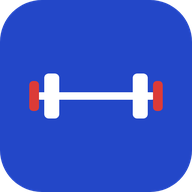
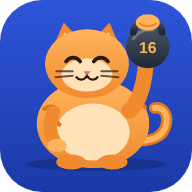
3.9: вес и замеры тела, полная резервная копия, новая иконка
- Раздел «Тело» в журнале: вес и 7 обхватов, дельта за 4 недели (окраска по цели), график, список, удаление
- Синхронизация замеров с аккаунтом (документ _body в коллекции журнала)
- Резервная копия v2: настройки, инвентарь, авторегулировка, календарь, атлас, журнал, замеры; старые копии v1 читаются
- Экспорт замеров в CSV; точность графика задаётся параметром sparkSvg
- Иконка: толстый кот с гирей (обычная и maskable)

Claude-Session: https://claude.ai/code/session_016UbA6bamnyAaC4WGgmYbFm

diff --git a/src/js/18-measures.js b/src/js/18-measures.js
@@ -1,0 +1,164 @@
+/* ===================== ТЕЛО: ВЕС И ЗАМЕРЫ ===================== */
+/* BODY.rows = [{d:'2026-10-06', kg:82.4, waist:88, …}] — одна запись на день, любые поля.
+   Хранится в localStorage (podhod.body.v1) и, при входе в аккаунт, в документе «_body» той же коллекции, что журнал. */
+const BODY_KEY = 'podhod.body.v1';
+const BODY_FIELDS = [
+  {k:'kg', name:'Вес', unit:'кг', main:true},
+  {k:'waist', name:'Талия', unit:'см'}, {k:'chest', name:'Грудь', unit:'см'}, {k:'hips', name:'Таз', unit:'см'},
+  {k:'arm', name:'Бицепс', unit:'см'}, {k:'thigh', name:'Бедро', unit:'см'}, {k:'calf', name:'Голень', unit:'см'}, {k:'neck', name:'Шея', unit:'см'}
+];
+const BODY = {rows:[], pending:false, writing:false, again:false};
+function validBodyRows(rows) { return Array.isArray(rows) && rows.every(r => r && typeof r.d === 'string' && /^\d{4}-\d\d-\d\d$/.test(r.d)); }
+function cleanBodyRow(r) { const o = {d:r.d}; for (const f of BODY_FIELDS) { const v = parseNum(r[f.k]); if (v != null && v > 0 && v < 1000) o[f.k] = Math.round(v * 10) / 10; } return o; }
+function bodyHasValues(r) { return BODY_FIELDS.some(f => r[f.k] != null); }
+function bodyLoad() { try { const s = JSON.parse(localStorage.getItem(BODY_KEY) || 'null'); if (s && validBodyRows(s.rows)) BODY.rows = s.rows.map(cleanBodyRow).filter(bodyHasValues); } catch (e) {} }
+function bodySaveLocal() { try { localStorage.setItem(BODY_KEY, JSON.stringify({rows:BODY.rows})); } catch (e) {} }
+/* объединение по дате: поля складываются, при совпадении приоритет у b */
+function mergeBodyRows(a, b) {
+  const by = new Map();
+  for (const r of a || []) by.set(r.d, {...r});
+  for (const r of b || []) by.set(r.d, {...(by.get(r.d) || {}), ...r});
+  return [...by.values()].filter(bodyHasValues).sort((p, q) => p.d < q.d ? -1 : 1).slice(-400);
+}
+/* синхронизация с аккаунтом: вызывается из logInit при каждом снимке коллекции */
+function bodyRemote(doc, first) {
+  const remote = doc && validBodyRows(doc.rows) ? doc.rows.map(cleanBodyRow).filter(bodyHasValues) : [];
+  if (first) {
+    const merged = mergeBodyRows(remote, BODY.rows);
+    if (JSON.stringify(merged) !== JSON.stringify(remote)) { BODY.rows = merged; bodyTouch(true); } else BODY.rows = remote;
+  } else {
+    if (BODY.pending || JSON.stringify(remote) === JSON.stringify(BODY.rows)) return;
+    BODY.rows = remote;
+  }
+  bodySaveLocal();
+  if (S.view === 'journal' && !$('#b-form input:focus')) renderJournal();
+}
+function bodyTouch(now) {
+  bodySaveLocal();
+  if (LOG.mode !== 'cloud' || !LOG.col) return;
+  BODY.pending = true;
+  clearTimeout(BODY.timer);
+  BODY.timer = setTimeout(bodyFlush, now ? 0 : 800);
+}
+async function bodyFlush(retried) {
+  if (BODY.writing) { BODY.again = true; return; }
+  BODY.writing = true;
+  try {
+    if (BODY.rows.length) await LOG.col.doc('_body').set({ex:'_body', rows:BODY.rows});
+    else await LOG.col.doc('_body').delete();
+  } catch (e) {
+    if (e && e.code === 'unavailable' && !retried) { BODY.writing = false; setTimeout(() => bodyFlush(true), 800); return; }
+    LOG.err = 'Сохранить замеры в аккаунт не получилось — они остаются в этом браузере.'; logRefresh(null);
+  } finally {
+    BODY.writing = false;
+    if (BODY.again) { BODY.again = false; bodyFlush(); } else BODY.pending = false;
+  }
+}
+function bodyLatest(k) { for (let i = BODY.rows.length - 1; i >= 0; i--) if (BODY.rows[i][k] != null) return BODY.rows[i]; return null; }
+/* изменение за период: сравниваем последнее значение с ближайшим не позже cutoff */
+function bodyDelta(k, days) {
+  const last = bodyLatest(k); if (!last) return null;
+  const cutoff = dayKey(new Date(new Date(last.d + 'T12:00:00') - days * 86400000));
+  const prev = [...BODY.rows].reverse().find(r => r[k] != null && r.d <= cutoff && r.d !== last.d);
+  return prev ? {v:Math.round((last[k] - prev[k]) * 10) / 10, from:prev.d} : null;
+}
+const fmtDelta = v => (v > 0 ? '+' : v < 0 ? '−' : '±') + fmtKg(Math.abs(v));
+/* окраска изменения веса зависит от цели: на массе рост — хорошо, на рельефе — наоборот; на силе нейтрально */
+function deltaClass(v) { const g = S.goal === 'mass' ? 1 : S.goal === 'cut' ? -1 : 0; return !g || !v ? '' : v * g > 0 ? 'good' : 'bad'; }
+function bodyHtml() {
+  const last = bodyLatest('kg'), d4 = bodyDelta('kg', 28);
+  const pts = BODY.rows.filter(r => r.kg != null).slice(-40).map(r => ({d:r.d, v:r.kg}));
+  const chips = BODY_FIELDS.filter(f => !f.main).map(f => { const l = bodyLatest(f.k); if (!l) return ''; const dl = bodyDelta(f.k, 28); return `<li><span>${f.name}</span><b>${fmtKg(l[f.k])}<small>${f.unit}</small></b>${dl && dl.v ? `<em>${fmtDelta(dl.v)}</em>` : ''}</li>`; }).join('');
+  const form = `<form class="b-form" id="b-form" autocomplete="off">
+    <label class="b-date">Дата<input type="date" id="b-date" value="${todayKey()}" max="${todayKey()}" required></label>
+    ${BODY_FIELDS.map(f => { const l = bodyLatest(f.k); return `<label${f.main ? ' class="b-main"' : ''}>${f.name}, ${f.unit}<input class="lt-in" type="text" inputmode="decimal" data-bf="${f.k}" placeholder="${l ? fmtKg(l[f.k]) : '—'}" aria-label="${f.name}, ${f.unit}"></label>`; }).join('')}
+    <button type="submit" class="btn">Записать</button>
+    <p class="b-hint">Заполняйте то, что измерили: вес — утром натощак, обхваты — сантиметровой лентой без натяжения, в одних и тех же точках. Остальное можно оставить пустым.</p>
+  </form>`;
+  const rows = [...BODY.rows].reverse();
+  const rowHtml = r => `<li><span class="h-d">${fmtDay(r.d, true)}</span><span class="h-s">${BODY_FIELDS.filter(f => r[f.k] != null).map(f => `${f.main ? '' : f.name.toLowerCase() + ' '}${fmtKg(r[f.k])}${f.main ? ' кг' : ''}`).join(' · ')}</span><button type="button" class="h-del" data-bdel="${r.d}" aria-label="Удалить замер за ${fmtDay(r.d, true)}">Удалить</button></li>`;
+  const list = rows.length ? `<ul class="h-list b-list">${rows.slice(0, 6).map(rowHtml).join('')}</ul>${rows.length > 6 ? `<details class="j-all"><summary>Все замеры (${rows.length})</summary><ul class="h-list b-list">${rows.slice(6).map(rowHtml).join('')}</ul></details>` : ''}` : '';
+  return `<section class="b-sec" aria-labelledby="b-title">
+    <div class="b-head">
+      <div>
+        <p class="eyebrow">Тело</p>
+        <h2 id="b-title">Вес и замеры</h2>
+        ${last ? `<p class="b-now"><b>${fmtKg(last.kg)}<small>кг</small></b>${d4 && d4.v ? `<em class="${deltaClass(d4.v)}">${fmtDelta(d4.v)} за 4 нед.</em>` : `<em>${fmtDay(last.d, true)}</em>`}</p>` : `<p class="b-empty">Записей о весе пока нет. Взвешивайтесь раз в неделю в одно и то же время — по графику будет видно, куда идёт масса, а не дневные колебания воды.</p>`}
+        ${chips ? `<ul class="b-chips">${chips}</ul>` : ''}
+      </div>
+      ${pts.length > 1 ? `<div class="h-chart b-chart"><p class="h-cap">Вес, кг · ${pts.length} ${plural(pts.length, 'запись', 'записи', 'записей')}</p>${sparkSvg(pts, 'кг', 0.1)}</div>` : ''}
+    </div>
+    ${form}
+    ${list}
+  </section>`;
+}
+function bodySubmit(form) {
+  const d = $('#b-date').value;
+  if (!/^\d{4}-\d\d-\d\d$/.test(d) || d > todayKey()) { $('#b-date').focus(); return; }
+  const row = {d};
+  let any = false;
+  form.querySelectorAll('[data-bf]').forEach(inp => { const v = parseNum(inp.value); if (v != null && v > 0) { row[inp.dataset.bf] = v; any = true; } });
+  if (!any) { const f = form.querySelector('[data-bf="kg"]'); f.classList.add('need'); f.focus(); setTimeout(() => f.classList.remove('need'), 1200); return; }
+  BODY.rows = mergeBodyRows(BODY.rows, [cleanBodyRow(row)]);
+  bodyTouch(false);
+  renderJournal();
+  const m = $('#j-msg'); if (m) m.textContent = `Замер за ${fmtDay(d, true)} записан.`;
+}
+function bodyDelete(btn) {
+  if (!btn.classList.contains('armed')) { btn.classList.add('armed'); btn.textContent = 'Точно удалить?'; setTimeout(() => { btn.classList.remove('armed'); btn.textContent = 'Удалить'; }, 3000); return; }
+  BODY.rows = BODY.rows.filter(r => r.d !== btn.dataset.bdel);
+  bodyTouch(false); renderJournal();
+}
+function bodyCsv() {
+  const head = ['Дата'].concat(BODY_FIELDS.map(f => `${f.name}, ${f.unit}`));
+  const rows = BODY.rows.map(r => [r.d].concat(BODY_FIELDS.map(f => r[f.k] != null ? fmtKg(r[f.k]) : '')));
+  return '' + [head].concat(rows).map(r => r.join(';')).join('\r\n');
+}
+document.addEventListener('submit', e => { if (e.target.id === 'b-form') { e.preventDefault(); bodySubmit(e.target); } });
+document.addEventListener('click', e => {
+  const t = e.target.closest('button'); if (!t) return;
+  if (t.dataset.bdel) { bodyDelete(t); return; }
+  if (t.id === 'exp-body') { saveFile(`lazy-gym-body-${todayKey()}.csv`, bodyCsv(), 'text/csv').then(r => { const m = $('#j-msg'); if (m) m.textContent = r === 'ok' ? 'Таблица замеров сохранена.' : r === 'declined' ? 'Сохранение отменено.' : 'Сохранить файл не удалось.'; }); }
+});
+bodyLoad();
+
+/* ===================== ПОЛНАЯ РЕЗЕРВНАЯ КОПИЯ ===================== */
+/* v2: настройки планировщика, инвентарь, авторегулировка, календарь, атлас, журнал и замеры. v1 (только журнал) тоже читается. */
+function backupObject() {
+  return {app:'podhod', v:2, exported:new Date().toISOString(), version:window.PODHOD_VERSION || '',
+    settings:{...S}, gear:{bar:GEAR.bar, plates:GEAR.plates}, autoreg:{dismissed:AR.dismissed, light:AR.light}, ics:{...ICS}, motion:{...motionPrefs},
+    log:LOG.data, body:BODY.rows};
+}
+function restoreBackup(obj) {
+  const out = {sessions:0, exercises:0, body:0, settings:false};
+  if (obj.log && typeof obj.log === 'object') {
+    for (const [id, ss] of Object.entries(obj.log)) {
+      if (!EXI[id] || !validSessions(ss)) continue;
+      const clean = ss.map(x => ({d:x.d, ...(x.wk ? {wk:+x.wk} : {}), s:x.s.map(v => Array.isArray(v) && isFinite(+v[1]) ? [v[0] == null || v[0] === '' ? null : +v[0], +v[1]] : null)}));
+      const merged = mergeSessions(LOG.data[id], clean);
+      if (JSON.stringify(merged) !== JSON.stringify(LOG.data[id] || [])) { LOG.data[id] = merged; logTouch(id, true); out.exercises++; out.sessions += clean.length; }
+    }
+    logSaveLocal();
+  }
+  if (validBodyRows(obj.body)) {
+    const merged = mergeBodyRows(BODY.rows, obj.body.map(cleanBodyRow).filter(bodyHasValues));
+    if (JSON.stringify(merged) !== JSON.stringify(BODY.rows)) { out.body = merged.length - BODY.rows.length; BODY.rows = merged; bodyTouch(true); }
+  }
+  if (obj.v >= 2) {
+    if (obj.settings && typeof obj.settings === 'object') {
+      const s = obj.settings, ok = {};
+      for (const k of Object.keys(DEFAULTS)) if (k in s && k !== 'view') ok[k] = s[k];
+      if (Array.isArray(ok.groups)) ok.groups = ok.groups.filter(g => GROUPS.some(x => x.id === g));
+      if (Array.isArray(ok.equip)) ok.equip = ok.equip.filter(id => EQUIP.some(x => x.id === id));
+      if (!GOALS[ok.goal]) delete ok.goal; if (!FORMATS[ok.format]) delete ok.format; if (!LEVELS[ok.level]) delete ok.level;
+      Object.assign(S, ok); saveSettings(); out.settings = true;
+    }
+    if (obj.gear && typeof obj.gear === 'object') { if (isFinite(obj.gear.bar) && obj.gear.bar > 0) GEAR.bar = +obj.gear.bar; if (Array.isArray(obj.gear.plates)) { const pl = obj.gear.plates.map(Number).filter(v => v > 0); if (pl.length) GEAR.plates = [...new Set(pl)].sort((a, b) => b - a); } gearSave(); }
+    if (obj.autoreg && typeof obj.autoreg === 'object') { if (obj.autoreg.dismissed && typeof obj.autoreg.dismissed === 'object') AR.dismissed = obj.autoreg.dismissed; AR.light = !!obj.autoreg.light; arSave(); }
+    if (obj.ics && typeof obj.ics === 'object') { Object.assign(ICS, obj.ics); try { localStorage.setItem(ICS_KEY, JSON.stringify(ICS)); } catch (e) {} }
+    if (obj.motion && typeof obj.motion === 'object') { Object.assign(motionPrefs, obj.motion); saveMotionPrefs(); }
+    S.view = 'journal';
+    renderSetup();
+  }
+  return out;
+}

diff --git a/src/js/13-log.js b/src/js/13-log.js
@@ -55,8 +55,9 @@ async function logInit() {
   let first = true;
   LOG.col.onSnapshot(snap => {
     const remote = {};
-    for (const d of snap.docs) { const b = d.data(); if (b && EXI[d.id] && validSessions(b.sessions)) remote[d.id] = b.sessions; }
-    const changed = [];
+    let bodyDoc = null;
+    for (const d of snap.docs) { const b = d.data(); if (d.id === '_body') bodyDoc = b; else if (b && EXI[d.id] && validSessions(b.sessions)) remote[d.id] = b.sessions; }
+    const changed = [], wasFirst = first;
     if (first) {
       first = false;
       /* записи, сделанные в этом браузере до подключения, переносим в аккаунт */
@@ -76,6 +77,7 @@ async function logInit() {
       }
     }
     logSaveLocal();
+    bodyRemote(bodyDoc, wasFirst);
     logRefresh(changed);
   }, err => {
     if (err && err.code === 'unavailable') return;
@@ -260,7 +262,7 @@ function metricOf(ex) {
   if (ex.kind === 'dist') return {name:'Лучшая дистанция', unit:'м', f:s => { const v = s.s.filter(Boolean).map(x => x[1]); return v.length ? Math.max(...v) : null; }};
   return {name:'Лучший подход', unit:'повт.', f:s => { const v = s.s.filter(Boolean).map(x => x[1]); return v.length ? Math.max(...v) : null; }};
 }
-function sparkSvg(pts, unit) {
+function sparkSvg(pts, unit, step = 0.5) {
   if (!pts.length) return '';
   const W = 300, H = 74, L = 6, R = 40, T = 12, B = 14;
   const vs = pts.map(p => p.v);
@@ -272,7 +274,7 @@ function sparkSvg(pts, unit) {
   const line = pts.map((p, i) => `${i ? 'L' : 'M'}${x(i).toFixed(1)},${y(p.v).toFixed(1)}`).join('');
   const area = pts.length > 1 ? `${line}L${x(pts.length - 1).toFixed(1)},${H - B}L${x(0).toFixed(1)},${H - B}Z` : '';
   const last = pts[pts.length - 1], first = pts[0];
-  const fv = v => fmtKg(Math.round(v * 2) / 2);
+  const fv = v => fmtKg(Math.round(v / step) * step);
   const data = esc(JSON.stringify(pts.map((p, i) => [x(i), y(p.v), `${fmtDay(p.d, true)} · ${fv(p.v)} ${unit}`])));
   return `<svg class="spark" viewBox="0 0 ${W} ${H}" role="img" aria-label="Динамика: от ${fv(first.v)} до ${fv(last.v)} ${unit}" data-pts="${data}">
     <line class="sp-base" x1="${L}" x2="${W - R}" y1="${H - B}" y2="${H - B}"/>
@@ -362,9 +364,10 @@ function renderJournal() {
   const last = entries.reduce((m, [, ss]) => ss[ss.length - 1].d > m ? ss[ss.length - 1].d : m, '');
   entries.sort((a, b) => a[1][a[1].length - 1].d < b[1][b[1].length - 1].d ? 1 : -1);
   const tools = `<div class="j-tools">
-      ${LOG.canExport ? `<button type="button" class="btn btn-2" id="exp-csv">Таблица для Excel</button><button type="button" class="btn btn-2" id="exp-json">Резервная копия</button>` : ''}
+      ${LOG.canExport ? `<button type="button" class="btn btn-2" id="exp-json">Полная копия (JSON)</button><button type="button" class="btn btn-2" id="exp-csv">Журнал для Excel</button><button type="button" class="btn btn-2" id="exp-body">Замеры для Excel</button>` : ''}
       <label class="btn btn-2" for="imp-file">Восстановить из копии</label><input type="file" id="imp-file" accept=".json,application/json" hidden>
-    </div><p class="p-hint" id="j-msg" role="status"></p>`;
+    </div><p class="p-hint" id="j-msg" role="status"></p>
+    <p class="p-hint">Полная копия — настройки, инвентарь, журнал и замеры одним файлом: перенесёт всё на другой телефон или вернёт после очистки браузера.</p>`;
   let html = `<header class="p-head j-head">
     <div class="p-sum">
       <p class="eyebrow">Журнал</p>
@@ -378,7 +381,7 @@ function renderJournal() {
       ${tools}
     </div>
     <figure class="j-heat"><figcaption class="lb-h">Активность за 12 недель${last ? ` · последняя тренировка ${fmtDay(last, true)}` : ''}</figcaption>${heatmap()}</figure>
-  </header>`;
+  </header>${bodyHtml()}`;
   if (!entries.length) {
     html += `<div class="empty"><h2>Записей пока нет</h2><p>Откройте план и отмечайте подходы в карточках упражнений: вес и повторы сохранятся здесь, а планировщик начнёт подсказывать, когда прибавлять вес.</p><button type="button" class="btn" data-view="plan">Перейти к плану</button></div>`;
   } else {
@@ -433,8 +436,8 @@ function csvText() {
 async function exportLog(kind) {
   const msg = $('#j-msg'), d = todayKey();
   const r = kind === 'csv' ? await saveFile(`lazy-gym-log-${d}.csv`, csvText(), 'text/csv')
-    : await saveFile(`lazy-gym-kopiya-${d}.json`, JSON.stringify({app:'podhod', v:1, exported:new Date().toISOString(), log:LOG.data}), 'application/json');
-  if (msg) msg.textContent = r === 'ok' ? (kind === 'csv' ? 'Таблица сохранена. Откройте её в Excel: столбцы разделены точкой с запятой.' : 'Копия сохранена. Восстановить журнал из неё можно здесь же, на любом устройстве.')
+    : await saveFile(`lazy-gym-kopiya-${d}.json`, JSON.stringify(backupObject()), 'application/json');
+  if (msg) msg.textContent = r === 'ok' ? (kind === 'csv' ? 'Таблица сохранена. Откройте её в Excel: столбцы разделены точкой с запятой.' : 'Полная копия сохранена. Восстановить из неё всё можно здесь же, на любом устройстве.')
     : r === 'declined' ? 'Сохранение отменено.' : 'Сохранить файл не удалось.';
 }
 function importLog(file) {
@@ -442,19 +445,15 @@ function importLog(file) {
   const rd = new FileReader();
   rd.onload = () => {
     let obj; try { obj = JSON.parse(rd.result); } catch (e) { obj = null; }
-    const log = obj && obj.app === 'podhod' && obj.log && typeof obj.log === 'object' ? obj.log : null;
-    if (!log) { if (msg) msg.textContent = 'Это не резервная копия Lazy Gym Planner. Выберите файл lazy-gym-kopiya-….json.'; return; }
-    let nEx = 0, nS = 0;
-    for (const [id, ss] of Object.entries(log)) {
-      if (!EXI[id] || !validSessions(ss)) continue;
-      const clean = ss.map(x => ({d:x.d, ...(x.wk ? {wk:+x.wk} : {}), s:x.s.map(v => Array.isArray(v) && isFinite(+v[1]) ? [v[0] == null || v[0] === '' ? null : +v[0], +v[1]] : null)}));
-      const merged = mergeSessions(LOG.data[id], clean);
-      if (JSON.stringify(merged) !== JSON.stringify(LOG.data[id] || [])) { LOG.data[id] = merged; logTouch(id, true); nEx++; nS += clean.length; }
-    }
-    logSaveLocal();
+    if (!obj || obj.app !== 'podhod' || (!obj.log && !obj.body && !obj.settings)) { if (msg) msg.textContent = 'Это не резервная копия Lazy Gym Planner. Выберите файл lazy-gym-kopiya-….json.'; return; }
+    const r = restoreBackup(obj);
     renderJournal();
     const m2 = $('#j-msg');
-    if (m2) m2.textContent = nEx ? `Восстановлено записей: ${nS}, упражнений: ${nEx}. Совпадающие даты объединены.` : 'Новых записей в копии нет — журнал уже содержит всё из неё.';
+    const parts = [];
+    if (r.exercises) parts.push(`записей журнала: ${r.sessions} (упражнений: ${r.exercises})`);
+    if (r.body > 0) parts.push(`замеров: ${r.body}`);
+    if (r.settings) parts.push('настройки');
+    if (m2) m2.textContent = parts.length ? `Восстановлено: ${parts.join(', ')}. Совпадающие даты объединены.` : 'Нового в копии нет — всё из неё уже есть.';
   };
   rd.readAsText(file);
 }

diff --git a/src/css/10-base.css b/src/css/10-base.css
@@ -464,3 +464,29 @@ h1, h2, h3, h4 { text-wrap:balance; margin:0; }
 @media (prefers-reduced-motion: reduce) { * { transition:none !important; animation:none !important; } }
 .pwa-update { position:fixed; left:16px; right:16px; bottom:calc(16px + env(safe-area-inset-bottom, 0px)); z-index:20; display:flex; align-items:center; justify-content:space-between; gap:12px; background:var(--ink); color:var(--surface); border-radius:12px; padding:10px 14px; font-size:14px; box-shadow:0 8px 24px rgba(10,14,24,.25); }
 .pwa-update .btn { background:var(--surface); color:var(--ink); }
+
+/* ---------- тело: вес и замеры ---------- */
+.b-sec { background:var(--surface); border:1px solid var(--line); border-radius:var(--r); padding:16px 14px; margin-bottom:14px; display:grid; gap:14px; }
+.b-head { display:grid; grid-template-columns:minmax(0, 1fr) minmax(0, 1.1fr); gap:16px; align-items:start; }
+.b-head h2 { font:400 24px/1.1 var(--f-display); margin:0 0 8px; }
+.b-now { margin:0; display:flex; align-items:baseline; gap:10px; flex-wrap:wrap; }
+.b-now b { font:600 30px/1 var(--f-mono); font-variant-numeric:tabular-nums; }
+.b-now b small { font:500 13px var(--f-body); color:var(--muted); margin-left:4px; }
+.b-now em { font:600 13px var(--f-mono); font-style:normal; color:var(--muted); }
+.b-now em.good { color:var(--good); } .b-now em.bad { color:var(--hot); }
+.b-empty { margin:0; font-size:13px; color:var(--muted); max-width:46ch; }
+.b-chips { list-style:none; margin:10px 0 0; padding:0; display:flex; flex-wrap:wrap; gap:6px 14px; }
+.b-chips li { display:flex; gap:5px; align-items:baseline; font-size:12.5px; color:var(--muted); }
+.b-chips b { font:600 15px/1 var(--f-mono); color:var(--ink); font-variant-numeric:tabular-nums; }
+.b-chips b small { font:500 11px var(--f-body); color:var(--muted); margin-left:2px; }
+.b-chips em { font:600 11px var(--f-mono); font-style:normal; color:var(--faint); }
+.b-chart { min-width:0; }
+.b-form { display:grid; grid-template-columns:repeat(auto-fill, minmax(96px, 1fr)); gap:8px; align-items:end; padding-top:12px; border-top:1px solid var(--line); }
+.b-form label { display:grid; gap:4px; font-size:12px; color:var(--muted); }
+.b-form .b-date { grid-column:span 2; }
+.b-form input[type=date] { height:38px; border:1px solid var(--line); border-radius:9px; background:var(--surface); color:var(--ink); font:500 14px var(--f-mono); padding:0 8px; }
+.b-form .b-main .lt-in { border-color:var(--ink); }
+.b-form .btn { height:38px; }
+.b-form .b-hint { grid-column:1 / -1; margin:0; font-size:12.5px; color:var(--faint); max-width:70ch; }
+.b-list li { grid-template-columns:86px minmax(0, 1fr) auto; }
+@media (max-width:640px) { .b-head { grid-template-columns:1fr; } .b-form .b-date { grid-column:span 2; } }
